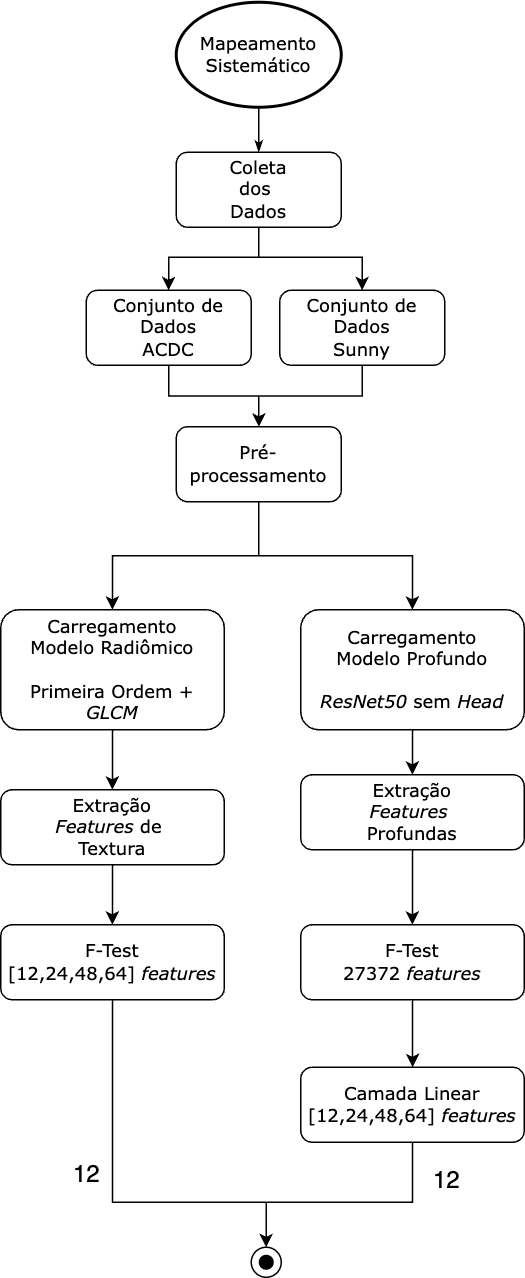
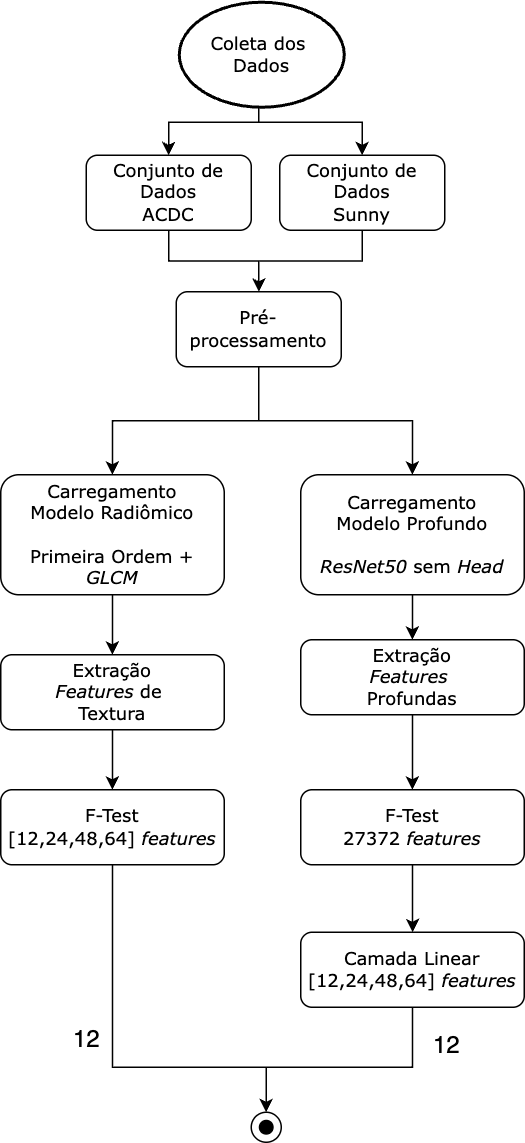
Fix imagem fluxograma - removido a parte inicial com "mapeamento sistematico"

diff --git a/Textual/Cap4-Metodologia.tex b/Textual/Cap4-Metodologia.tex
@@ -19,7 +19,7 @@ A Figuras \ref{fig:fig015-01} e \ref{fig:fig015-02} demonstram o fluxograma do p
     \centering
     \captionsetup{width=0.98\textwidth, justification=justified}
     \caption{Fluxograma - Pré-Processamento e Arquitetura}
-    \includegraphics[scale=0.36]{figures/fig015-01.png}
+    \includegraphics[scale=0.38]{figures/fig015-01.png}
     \caption*{Fonte: Autor}
     \label{fig:fig015-01}
 \end{figure}
@@ -28,7 +28,7 @@ A Figuras \ref{fig:fig015-01} e \ref{fig:fig015-02} demonstram o fluxograma do p
     \centering
     \captionsetup{width=0.98\textwidth, justification=justified}
     \caption{Fluxograma - Continuação}
-    \includegraphics[scale=0.38]{figures/fig015-02.png}
+    \includegraphics[scale=0.36]{figures/fig015-02.png}
     \caption*{Fonte: Autor}
     \label{fig:fig015-02}
 \end{figure}
